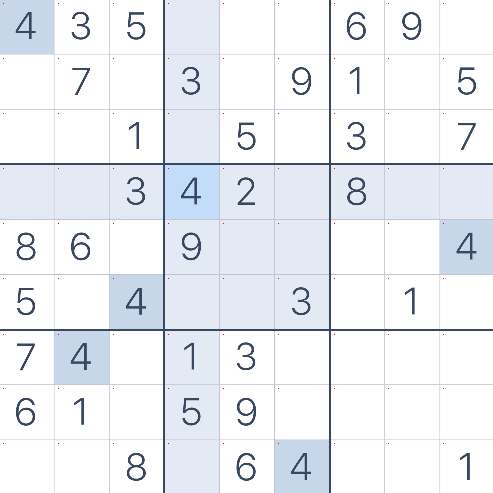
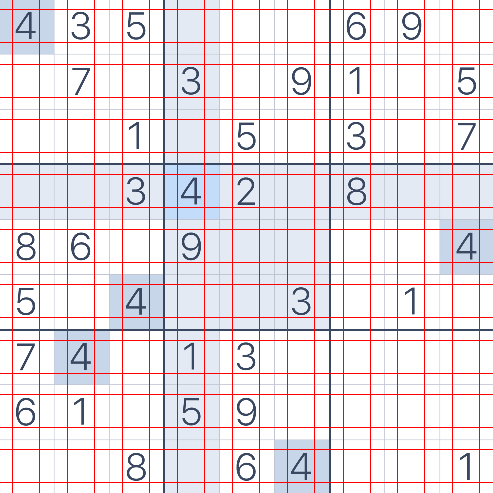
découpage

diff --git a/découpage pixel.py b/découpage pixel.py
@@ -1,0 +1,32 @@
+from PIL import ImageGrab, Image
+
+x_base = 12
+y_base = 9
+y_moins = 33
+x_plus = 27
+
+screen = ImageGrab.grab((386, 242, 879, 735))
+pixels = list(screen.getdata())
+
+dico_pos = {0: 0, 1: 55, 2: 110, 3: 165, 4: 220, 5: 275, 6: 331, 7: 385, 8: 440}
+
+print(screen.size)
+
+for y in range(9):
+    for x in range(9):
+        x2, y2 = dico_pos[x] + x_base, dico_pos[y] + y_base
+        x3, y3 = x2 + x_plus, y2 + y_moins
+        for a in range(493):
+            pixels[y2 * screen.width + a] = 255, 0, 0
+            pixels[y3 * screen.width + a] = 255, 0, 0
+            pixels[a * screen.width + x2] = 255, 0, 0
+            pixels[a * screen.width + x3] = 255, 0, 0
+        i = y2 * screen.width + x2
+        i2 = y3 * screen.width + x3
+        pixels[i] = 255, 0, 0
+        pixels[i2] = 255, 0, 0
+
+new_img = Image.new(screen.mode, screen.size)
+new_img.putdata(pixels)
+new_img.show()
+new_img.save("test.png")
